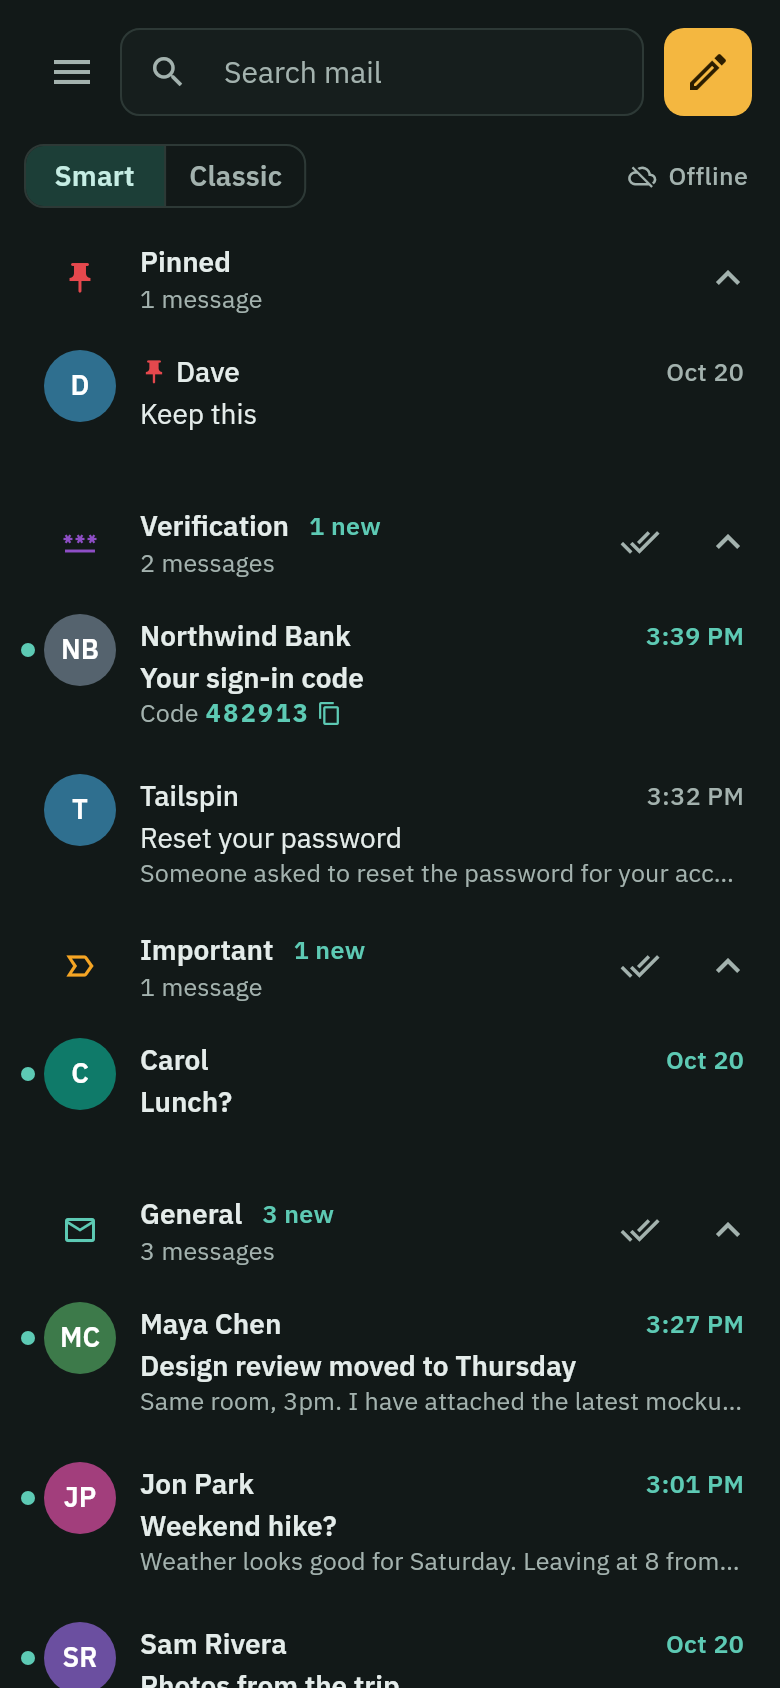
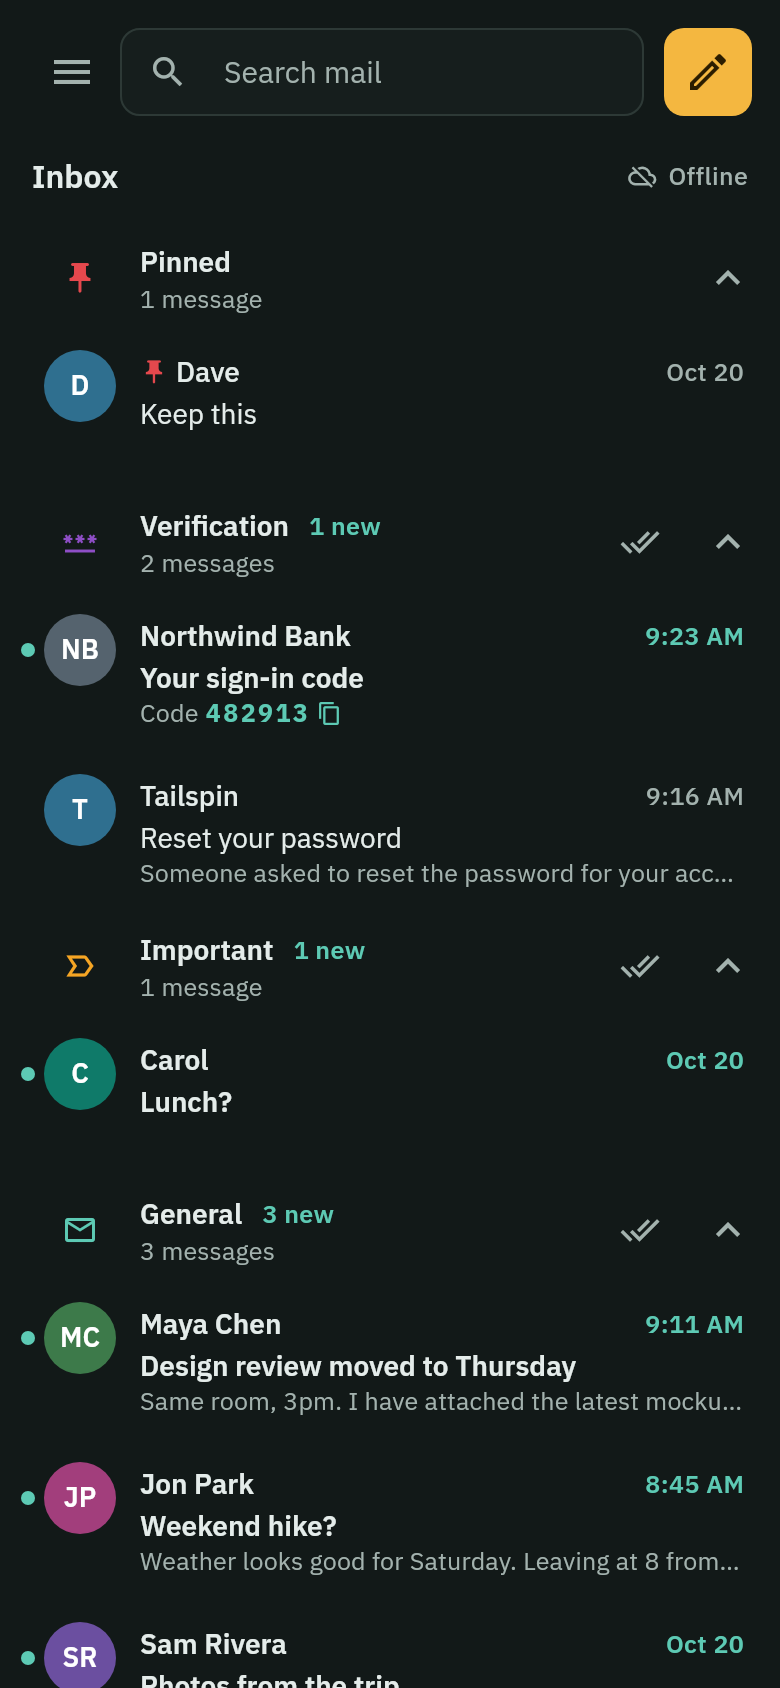
Inbox: Smart only, no Classic layout
The Smart / Classic switch is gone; the inbox is always the Smart Inbox
(sections), titled "Inbox". Folders, Pins and search still show one list
newest first. Tests that used Classic to reach a newsletter open the
Newsletters section instead; the paging test uses a folder. README demo
screens re-rendered.

Claude-Session: https://claude.ai/code/session_014i6HAP1iNv3q6sAUqpys6p

diff --git a/app/test/mail_shell_test.dart b/app/test/mail_shell_test.dart
@@ -245,21 +245,17 @@ void main() {
     }
   });
 
-  testWidgets('Classic shows one list, newest first', (tester) async {
+  testWidgets('the inbox is always the Smart Inbox', (tester) async {
     await show(tester, const Size(1400, 900));
-    await tester.tap(find.text('Classic'));
+    expect(find.text('Classic'), findsNothing);
+    expect(find.text('Pinned'), findsOneWidget);
+    // Another view and back: still sections.
+    await tester.tap(find.text('Archive'));
     await tester.pump();
     expect(find.text('Pinned'), findsNothing);
-    for (final subject in [
-      'Hello there',
-      'Lunch?',
-      'Weekly deals',
-      'Your parcel',
-      'Keep this',
-    ]) {
-      expect(find.text(subject), findsOneWidget);
-    }
-    expect(top(tester, 'Keep this') < top(tester, 'Hello there'), isTrue);
+    await tester.tap(find.byTooltip('Back to Inbox'));
+    await tester.pump();
+    expect(find.text('Pinned'), findsOneWidget);
   });
 
   testWidgets('narrow: one pane at a time, back returns to the list', (
@@ -346,8 +342,11 @@ void main() {
   testWidgets('thousands of messages: only what is on screen is built', (
     tester,
   ) async {
-    final inbox = store.mailboxes.inbox(store.accounts.all().single.id)!;
-    store.messages.upsertSummaries(inbox.id, [
+    // A folder shows one long list, loaded a page at a time.
+    final archive = store.mailboxes
+        .forAccount(store.accounts.all().single.id)
+        .firstWhere((b) => b.encodedName == 'Archive');
+    store.messages.upsertSummaries(archive.id, [
       for (var i = 100; i < 3100; i++)
         MessageSummary(
           uid: i,
@@ -357,10 +356,10 @@ void main() {
         ),
     ]);
     await show(tester, const Size(1400, 900));
-    await tester.tap(find.text('Classic'));
+    await tester.tap(find.text('Archive'));
     await tester.pump();
     final built = find.byType(MessageTile).evaluate().length;
-    expect(built, lessThan(30), reason: 'built $built rows for 3005 messages');
+    expect(built, lessThan(30), reason: 'built $built rows for 3000 messages');
     // Scrolling far down loads more pages and still builds only a screenful.
     await tester.drag(
       find.byType(CustomScrollView).first,

diff --git a/app/lib/src/ui/message_list_pane.dart b/app/lib/src/ui/message_list_pane.dart
@@ -161,7 +161,7 @@ final class _TopBarState extends State<_TopBar> {
 
 // --------------------------------------------------------------- header
 
-/// Smart / Classic tabs for the inbox (or the view's title), and the sync
+/// The view's title (with a way back, outside the inbox), and the sync
 /// status line.
 final class _ViewHeader extends StatelessWidget {
   const _ViewHeader({required this.controller});
@@ -185,30 +185,13 @@ final class _ViewHeader extends StatelessWidget {
   Widget _title(BuildContext context, MailLocation location) {
     final theme = Theme.of(context);
     final store = controller.services.store;
+    final heading = theme.textTheme.titleMedium?.copyWith(
+      fontWeight: FontWeight.w600,
+    );
     if (location is InboxLocation) {
-      return ValueListenableBuilder(
-        valueListenable: controller.smartLayout,
-        builder: (context, smart, _) => Align(
-          alignment: Alignment.centerLeft,
-          child: SegmentedButton<bool>(
-            showSelectedIcon: false,
-            style: const ButtonStyle(visualDensity: VisualDensity.compact),
-            segments: const [
-              ButtonSegment(
-                value: true,
-                label: Text('Smart'),
-                tooltip: 'Sorted into sections',
-              ),
-              ButtonSegment(
-                value: false,
-                label: Text('Classic'),
-                tooltip: 'One list, newest first',
-              ),
-            ],
-            selected: {smart},
-            onSelectionChanged: (s) => controller.setSmartLayout(s.single),
-          ),
-        ),
+      return Padding(
+        padding: const EdgeInsets.only(left: 4),
+        child: Text('Inbox', style: heading),
       );
     }
     final title = switch (location) {
@@ -239,9 +222,7 @@ final class _ViewHeader extends StatelessWidget {
             title,
             maxLines: 1,
             overflow: TextOverflow.ellipsis,
-            style: theme.textTheme.titleMedium?.copyWith(
-              fontWeight: FontWeight.w600,
-            ),
+            style: heading,
           ),
         ),
         if (folder != null && controller.canHaveRules(folder))

diff --git a/app/lib/src/mail/mail_controller.dart b/app/lib/src/mail/mail_controller.dart
@@ -173,7 +173,7 @@ final class SyncProblem extends SyncStatus {
 /// The mail screen's state, in separate pieces so each part of the screen
 /// rebuilds only when its own data changes:
 ///
-/// - [location] and [smartLayout]: where the user is;
+/// - [location]: where the user is;
 /// - [list]: what the list shows (paged; index reads only);
 /// - [counts]: sidebar and section counts;
 /// - [reader]: the open message;
@@ -182,14 +182,13 @@ final class SyncProblem extends SyncStatus {
 final class MailController {
   MailController(this.services) : list = MessageListModel(services.store) {
     _events = services.worker.events.listen(_onSyncEvent);
-    list.show(location.value, smart: smartLayout.value);
+    list.show(location.value);
     _refreshCounts();
   }
 
   final AppServices services;
   final MessageListModel list;
   final location = ValueNotifier<MailLocation>(const InboxLocation());
-  final smartLayout = ValueNotifier<bool>(true);
   final counts = ValueNotifier<MailCounts>(MailCounts.empty);
   final reader = ValueNotifier<ReaderState>(const ReaderEmpty());
   final selection = ValueNotifier<Set<int>>(const {});
@@ -227,7 +226,7 @@ final class MailController {
   void goTo(MailLocation target) {
     clearSelection();
     location.value = target;
-    list.show(target, smart: smartLayout.value);
+    list.show(target);
     // Views like Gmail's Starred are not synced in the background.
     if (target case FolderLocation(:final mailboxId)
         when _store.mailboxes.byId(mailboxId)?.isView ?? false) {
@@ -238,14 +237,6 @@ final class MailController {
             .catchError((Object _) {}),
       );
     }
-  }
-
-  void setSmartLayout(bool smart) {
-    if (smartLayout.value == smart) return;
-    smartLayout.value = smart;
-    goTo(
-      location.value is InboxLocation ? location.value : const InboxLocation(),
-    );
   }
 
   void search(String text) {
@@ -1066,7 +1057,6 @@ final class MailController {
     unawaited(_events.cancel());
     list.dispose();
     location.dispose();
-    smartLayout.dispose();
     counts.dispose();
     reader.dispose();
     selection.dispose();

diff --git a/app/lib/src/mail/message_list_model.dart b/app/lib/src/mail/message_list_model.dart
@@ -43,12 +43,12 @@ final class MessageListModel extends ChangeNotifier {
   static const _collapsedKey = 'ui.collapsedSections';
 
   MailLocation _location = const InboxLocation();
-  bool _smart = true;
   Set<SmartSection> _collapsed = const {};
 
   MailLocation get location => _location;
-  bool get smart => _smart;
-  bool get showsSections => _location is InboxLocation && _smart;
+
+  /// The inbox is always the Smart Inbox: sections instead of one list.
+  bool get showsSections => _location is InboxLocation;
 
   /// Smart Inbox: sections with mail, in order.
   List<SectionState> sections = const [];
@@ -67,9 +67,8 @@ final class MessageListModel extends ChangeNotifier {
         ]
       : messages;
 
-  void show(MailLocation location, {required bool smart}) {
+  void show(MailLocation location) {
     _location = location;
-    _smart = smart;
     messages = const [];
     reachedEnd = false;
     refresh();

diff --git a/app/test/block_test.dart b/app/test/block_test.dart
@@ -70,7 +70,7 @@ void main() {
     tester,
   ) async {
     await show(tester);
-    await tester.tap(find.text('Classic'));
+    await tester.tap(find.text('Newsletters')); // collapsed at first
     await tester.pump();
     await open(tester, 'Weekly deals');
     await action(tester, 'Block sender');
@@ -108,7 +108,7 @@ void main() {
 
   testWidgets('blocking a whole domain', (tester) async {
     await show(tester);
-    await tester.tap(find.text('Classic'));
+    await tester.tap(find.text('Newsletters')); // collapsed at first
     await tester.pump();
     await open(tester, 'Weekly deals');
     await action(tester, 'Block sender');

diff --git a/app/lib/src/mail/mail_location.dart b/app/lib/src/mail/mail_location.dart
@@ -12,7 +12,7 @@ sealed class MailLocation {
   int? get accountId => null;
 }
 
-/// The inbox of every account (or one), in Smart or Classic layout.
+/// The inbox of every account (or one), as the Smart Inbox.
 final class InboxLocation extends MailLocation {
   const InboxLocation({this.accountId});
 

diff --git a/app/test/folders_test.dart b/app/test/folders_test.dart
@@ -84,7 +84,7 @@ void main() {
     tester,
   ) async {
     await show(tester);
-    await tester.tap(find.text('Classic'));
+    await tester.tap(find.text('Newsletters')); // collapsed at first
     await tester.pump();
     await tester.tap(find.text('Weekly deals'));
     await tester.runAsync(
